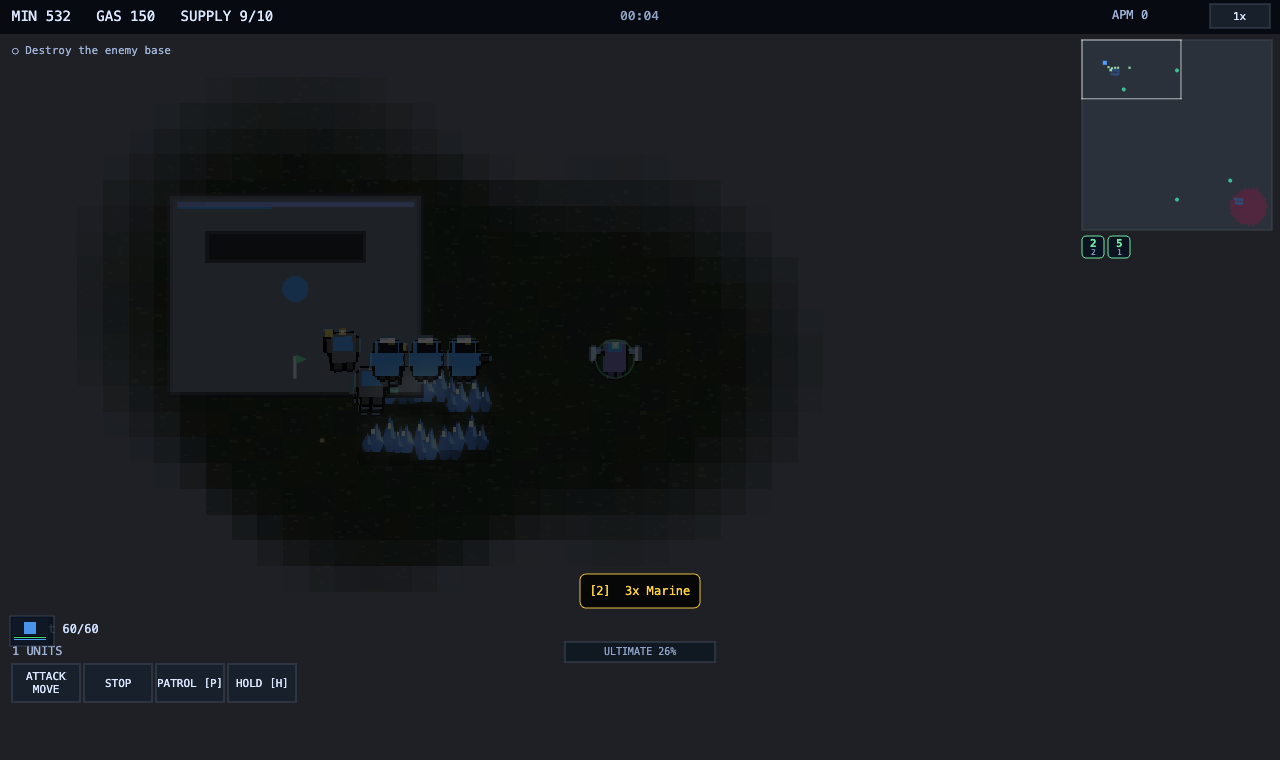
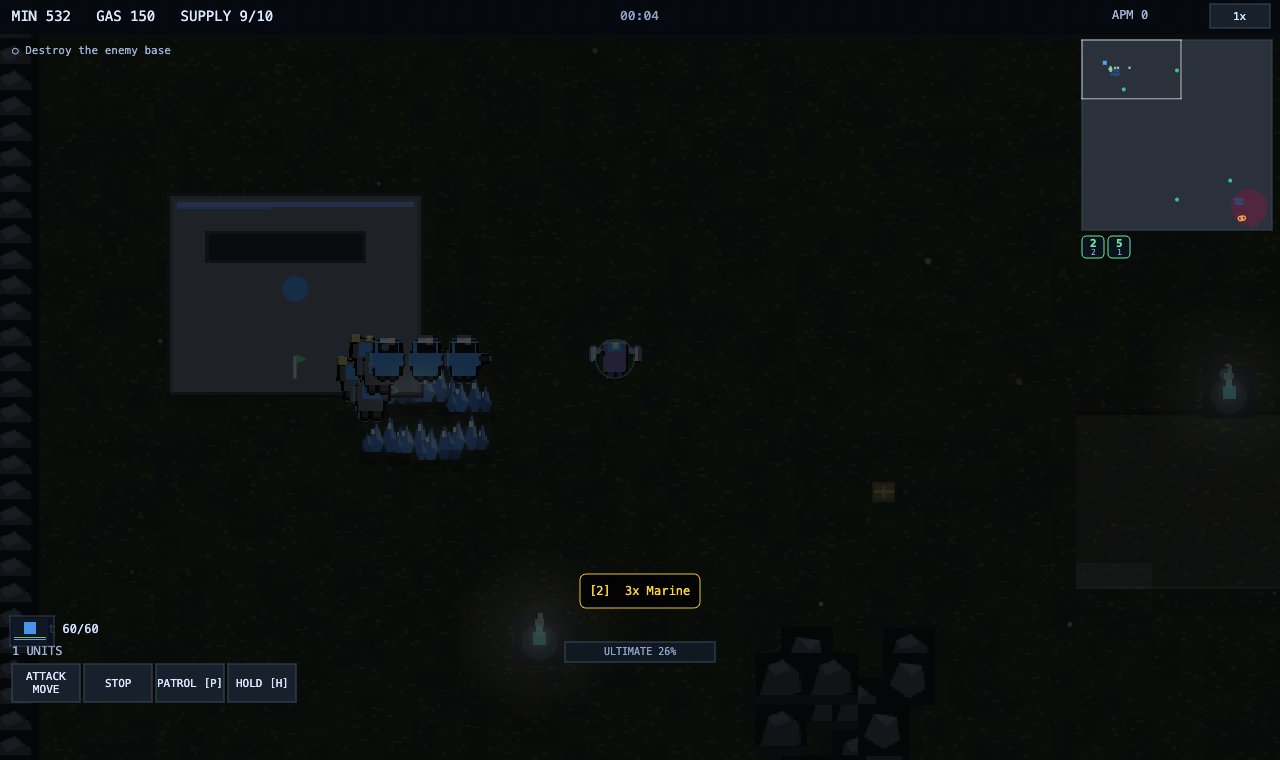
v2.21.0: SC1 message log w/ timestamps, minimap event pings (kills/contact/building loss), mining automation toggle (J), gradual stale-intel fog fade; fix latent idleTxt crash

diff --git a/src2/scenes/BattleScene.js b/src2/scenes/BattleScene.js
@@ -824,6 +824,9 @@ export class BattleScene extends Phaser.Scene {
     this.fogImg = this.add.image(PXW / 2, PXH / 2, 'fog');
     this.fogImg.setOrigin(0.5).setScale(TILE).setDepth(500).setAlpha(0.72);
     this.seen = new Uint8Array(MAP_W * MAP_H);
+    this.lastSeen = new Float32Array(MAP_W * MAP_H); // SC1: staleness of intel per tile
+    this._eventPings = []; // minimap event pings {x,y,t,color,big}
+    this.autoMine = true; // GAP 65 mining automation toggle (J)
     this.visCanvas = document.createElement('canvas');
     this.visCanvas.width = MAP_W; this.visCanvas.height = MAP_H;
     this.visCtx = this.visCanvas.getContext('2d');
@@ -843,15 +846,25 @@ export class BattleScene extends Phaser.Scene {
       if (!this.seen[i]) { const tx = i % MAP_W, ty = (i / MAP_W) | 0; fogCtx.fillRect(tx, ty, 1, 1); }
     }
     // explored => dim gray (seen), currently visible => transparent in vis layer
-    visCtx.fillStyle = 'rgba(108,116,134,1)';
-    visCtx.fillRect(0, 0, MAP_W, MAP_H);
+    // SC1 gradual intel: freshly-explored tiles start bright, stale intel darkens over ~40s
+    for (let ty = 0; ty < MAP_H; ty++) {
+      for (let tx = 0; tx < MAP_W; tx++) {
+        const i = tx + ty * MAP_W;
+        if (!this.seen[i]) continue;
+        const ls = this.lastSeen[i] || 0;
+        const age = Math.max(0, this.gameTime - ls);
+        const a = Math.min(1, 0.25 + (age / 40) * 0.75);
+        visCtx.fillStyle = `rgba(108,116,134,${a.toFixed(2)})`;
+        visCtx.fillRect(tx, ty, 1, 1);
+      }
+    }
     const stamp = (cx, cy, r, layer) => {
       for (let dy = -r; dy <= r; dy++) {
         for (let dx = -r; dx <= r; dx++) {
           if (dx * dx + dy * dy > r * r) continue;
           const tx = Math.round(cx / TILE + dx), ty = Math.round(cy / TILE + dy);
           if (tx < 0 || ty < 0 || tx >= MAP_W || ty >= MAP_H) continue;
-          if (layer === 'seen') this.seen[this.nav.idx(tx, ty)] = 1;
+          if (layer === 'seen') { this.seen[this.nav.idx(tx, ty)] = 1; this.lastSeen[this.nav.idx(tx, ty)] = this.gameTime; }
         }
       }
     };
@@ -1302,6 +1315,23 @@ export class BattleScene extends Phaser.Scene {
     return best;
   }
 
+  addEventPing(x, y, color, big) {
+    this._eventPings.push({ x, y, t: this.gameTime, color: color || 0xff5c5c, big: !!big });
+    if (this._eventPings.length > 12) this._eventPings.shift();
+  }
+
+  toggleAutoMine() {
+    this.autoMine = !this.autoMine;
+    this.events.emit('hud:alert', this.autoMine ? 'MINING AUTOMATION: ON' : 'MINING AUTOMATION: OFF');
+    this.audio?.[this.autoMine ? 'objective' : 'error']?.();
+    if (!this.autoMine) {
+      // park idle miners; working ones finish their current cycle
+      for (const u of this.units) { if (!u.dead && u.team === 0 && u.def.worker && (!u.order || u.order.type === 'harvest' || u.order.type === 'returnCargo')) { if (u.order?.type !== 'returnCargo') { u.order = null; u.state = 'idle'; } } }
+    } else {
+      for (const u of this.units) { if (!u.dead && u.team === 0 && u.def.worker && !u.order) u.setOrder({ type: 'harvest' }); }
+    }
+  }
+
   onUnitDeath(u) {
     const p = this.players[u.team];
     p.supplyUsed -= u.def.supply || 0;
@@ -1309,6 +1339,8 @@ export class BattleScene extends Phaser.Scene {
     this.units = this.units.filter(x => x !== u);
     this.selection.delete(u);
     this.harvestTargetReset(u);
+    // minimap event ping on combat deaths
+    if (!this.gameOver) this.addEventPing(u.x, u.y, u.team === 0 ? 0xff5c5c : 0xffb04a, !!u.isBoss || !!u.def.heavy);
     // F1: kill feedback — shake + credit + ultimate energy
     if (u.isBoss) {
       this.shake(10, 0.6);
@@ -1337,6 +1369,7 @@ export class BattleScene extends Phaser.Scene {
   onBuildingDeath(b) {
     this.buildings = this.buildings.filter(x => x !== b);
     this.shake(b.def.primary ? 12 : 7, 0.5);
+    if (!this.gameOver) this.addEventPing(b.x, b.y, b.team === 0 ? 0xff5c5c : 0xffb04a, !!b.def.primary);
     if (this.selectedBuilding === b) this.selectedBuilding = null;
     this.players[b.team].supplyCap = this.computeSupplyCap(b.team);
     const info = RACE_INFO[this.players[b.team].race];
@@ -1723,6 +1756,8 @@ export class BattleScene extends Phaser.Scene {
       if (this.selection.size) { for (const u of this.selection) { u.order = null; u.state = 'idle'; u.path = []; u.waypoints = null; u.patrolPoints = null; } this.audio?.orderPing?.(); }
     });
     this.input.keyboard.on('keydown-T', () => this.armScan());
+    // GAP 65: mining automation toggle
+    this.input.keyboard.on('keydown-J', () => this.toggleAutoMine());
     this.input.keyboard.on('keydown-P', () => this.armPatrol());
     this.input.keyboard.on('keydown-B', () => this.toggleBurrowSelected());
     this.input.keyboard.on('keydown-F', () => this.stimSelected());
@@ -2562,6 +2597,19 @@ export class BattleScene extends Phaser.Scene {
     // fog update throttled
     this.fogTimer -= dt;
     if (this.fogTimer <= 0) { this.fogTimer = 0.25; this.updateFog(); this.updateStealthVisibility(); }
+
+    // GAP: first-contact detection — first enemy seen on sensors
+    if (!this._contacted && !this.gameOver) {
+      for (const u of this.units) {
+        if (u.dead || u.team === 0 || u.cloaked || u.burrowed) continue;
+        if (this.currentlyVisible(u.x, u.y)) {
+          this._contacted = true;
+          this.events.emit('hud:radio', 'We have contact! Hostile units on sensors.', 'SCV');
+          this.addEventPing(u.x, u.y, 0xff5c5c, true);
+          break;
+        }
+      }
+    }
 
     // camera shake (decays)
     if (this._shake.t > 0) {

diff --git a/src2/scenes/HudScene.js b/src2/scenes/HudScene.js
@@ -12,6 +12,7 @@ export class HudScene extends Phaser.Scene {
     this.buttons = [];
     this.createTopBar();
     this.createMinimap();
+    this.createMsgLog();
     this.createCommandCard();
     this.createSelectionPanel();
     this.createAlert();
@@ -372,6 +373,41 @@ export class HudScene extends Phaser.Scene {
   banner(msg) {
     this.alert.setText(msg).setColor('#ffd23f').setAlpha(1);
     this.tweens.add({ targets: this.alert, alpha: 0, delay: 2200, duration: 500 });
+    this.logMessage(msg);
+  }
+
+  // ---------------- SC1 message log (GAP 35) ----------------
+  createMsgLog() {
+    this._msgLog = [];
+    this._logText = this.add.text(this.W - 260, 44, '', { fontFamily: 'Menlo, monospace', fontSize: '10px', color: '#b9c8e8', lineHeight: 14, align: 'right' }).setScrollFactor(0).setDepth(60).setAlpha(0.95);
+    this.events.once('shutdown', () => { this._msgLog = []; });
+  }
+
+  logMessage(msg) {
+    if (!this._logText) return;
+    const b = this.scene.get('Battle');
+    const t = b ? (b.gameTime | 0) : 0;
+    const mm = `0${Math.floor(t / 60)}`.slice(-2), ss = `0${t % 60}`.slice(-2);
+    this._msgLog.push({ line: `${mm}:${ss} ${msg}`, born: this.time.now });
+    if (this._msgLog.length > 7) this._msgLog.shift();
+    this.renderMsgLog();
+    if (!this._logFadeH) this._logFadeH = this.time.addEvent({ delay: 1000, loop: true, callback: () => this.fadeMsgLog() });
+  }
+
+  fadeMsgLog() {
+    if (!this._logText) return;
+    const now = this.time.now;
+    this._msgLog = this._msgLog.filter(m => now - m.born < 12000);
+    this.renderMsgLog();
+  }
+
+  renderMsgLog() {
+    if (!this._logText) return;
+    const now = this.time.now;
+    this._logText.setText(this._msgLog.map(m => {
+      const age = now - m.born;
+      return age > 10000 ? null : m.line;
+    }).filter(Boolean).join('\n'));
   }
 
   // SC-style radio log: bottom-left message stack that fades after a few seconds
@@ -509,6 +545,9 @@ export class HudScene extends Phaser.Scene {
     this.resText.setText(`MIN ${this.fmt(p.minerals)}   GAS ${this.fmt(p.gas)}   SUPPLY ${Math.floor(p.supplyUsed)}/${p.supplyCap}${capped ? ' !' : ''}`);
     this.resText.setColor(capped ? '#ff5c5c' : '#dbe7ff');
     const idle = p.idleWorkers || 0;
+    if (!this.idleTxt) {
+      this.idleTxt = this.add.text(this.W / 2 + 150, 14, '', { fontFamily: 'Menlo, monospace', fontSize: '11px', color: '#ffd23f', backgroundColor: '#00000088', padding: { x: 5, y: 2 } }).setOrigin(0.5, 0).setScrollFactor(0).setDepth(61);
+    }
     if (this.idleTxt) { this.idleTxt.setText(idle > 0 ? `IDLE ${idle} ▶` : '').setVisible(idle > 0); }
     // SC1 idle-worker cycle: click the IDLE chip to jump+select each idle worker in turn
     if (idle > 0 && !this._idleInteractive) {
@@ -610,6 +649,14 @@ export class HudScene extends Phaser.Scene {
         g.fillStyle(0x9fffff, k * 0.7);
         g.fillCircle(bx, by, 1.6);
       }
+    }
+    // GAP: minimap event pings (combat/contact/building loss) — expanding rings
+    for (const p of (b._eventPings || [])) {
+      const k = Math.max(0, 1 - (b.gameTime - p.t) / 4);
+      if (k <= 0) continue;
+      const px = this.mmX + p.x * s, py = this.mmY + p.y * s;
+      g.lineStyle(1.5, p.color, k * 0.9);
+      g.strokeCircle(px, py, 2 + (1 - k) * (p.big ? 14 : 8));
     }
     // SC1 power-up crates on minimap (only where visible)
     for (const cr of (b.crates || [])) {

diff --git a/src2/engine/entity.js b/src2/engine/entity.js
@@ -159,7 +159,7 @@ export class Unit {
       default:
         if (this.def.transport) { /* dropship holds station until ordered */ if (!this.order) this.state = 'idle'; }
         else if (this.def.heal) { if (!this.updateAutoHeal(dt)) this.updateAutoAcquire(dt); } // SC1 medic micro: heal first, shoot second
-        else if (this.def.worker || this.def.weaponless) { if (!this.order) this.setOrder({ type: 'harvest' }); }
+        else if (this.def.worker || this.def.weaponless) { if (!this.order && (this.world.autoMine !== false)) this.setOrder({ type: 'harvest' }); }
         else this.updateAutoAcquire(dt);
     }
     this.animate(dt);
